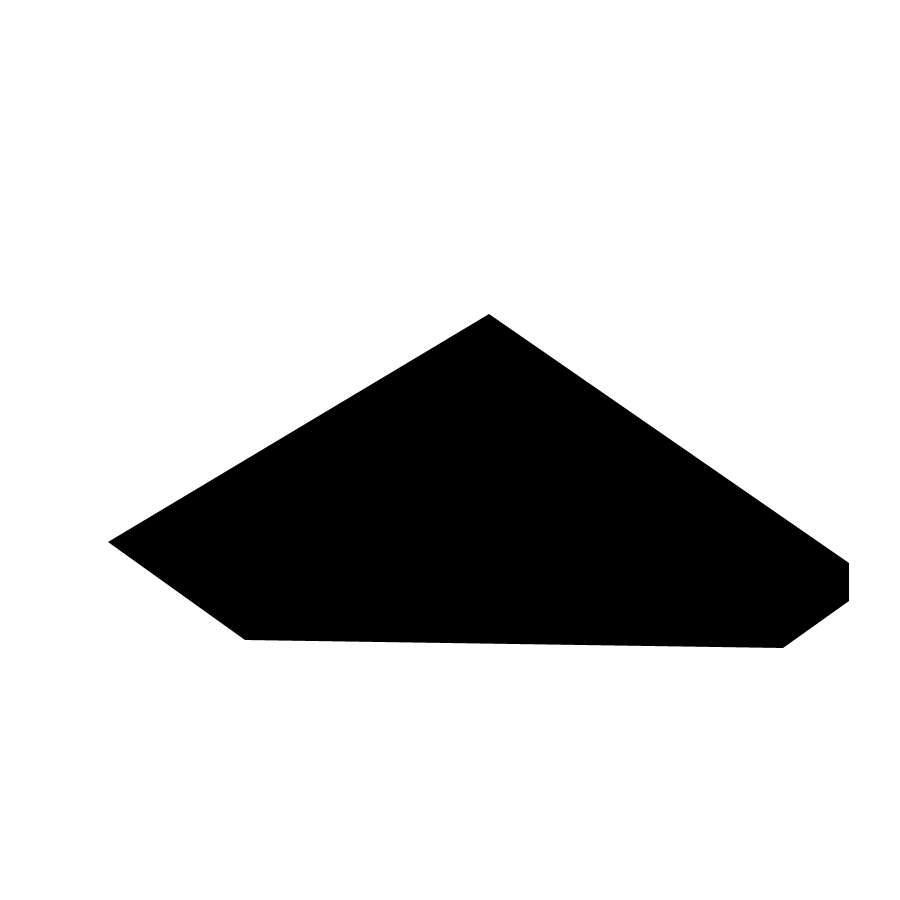
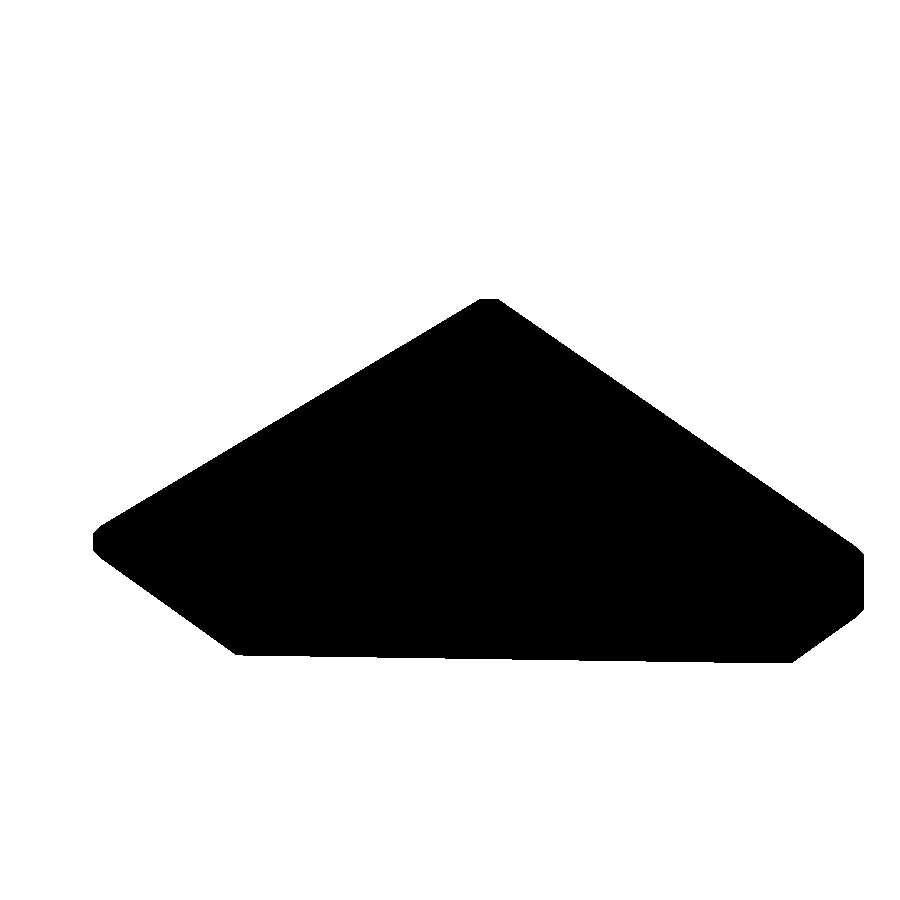
Pathfinding and other improvements (see description)
1) added global boolean DEBUG (change it in settings.json)
2) created a 2nd grid of 0/1 but in 2d coordinates (see grid.cpp)
3) now the 3d unit position is defined passing the position3D to the render (so i removed the set_noise() function in the unit_sprite class)

Changed region(s): [[0.0933, 0.3111, 0.9644, 0.7467]]

diff --git a/centurion-source/source/engine/engine.cpp b/centurion-source/source/engine/engine.cpp
@@ -180,22 +180,25 @@ void Engine::fps_sleep() {
 
 void Engine::render_ui() {
 
-	tahoma8_text.set_align();
+	/* DEBUG */
 
-	div_ui.apply_view_matrix();
-	div_ui.set_color(glm::vec4(0.f,0.f,0.f,0.5f));
-	div_ui.render(10.f, GAME::UI_BOTTOM_HEIGHT + 10.f);
+	if (GLB::DEBUG) {
 
-	if (bFPS){
-		tahoma6_text.set_position(glm::vec2(14.0f, GAME::UI_BOTTOM_HEIGHT + 12.f));
-		tahoma6_text.set_text(Fps1);
-		tahoma6_text.render();
+		div_ui.apply_view_matrix();
+		div_ui.set_color(glm::vec4(0.f, 0.f, 0.f, 0.5f));
+		div_ui.render(10.f, GAME::UI_BOTTOM_HEIGHT + 10.f);
 
-		tahoma6_text.set_position(glm::vec2(14.0f, GAME::UI_BOTTOM_HEIGHT + 12.f + 15.f));
-		tahoma6_text.set_text(Mspf1);
-		tahoma6_text.render();
+		if (bFPS) {
+			tahoma6_text.set_position(glm::vec2(14.0f, GAME::UI_BOTTOM_HEIGHT + 12.f));
+			tahoma6_text.set_text(Fps1);
+			tahoma6_text.render();
 
-		if (GLB::GAME){
+			tahoma6_text.set_position(glm::vec2(14.0f, GAME::UI_BOTTOM_HEIGHT + 12.f + 15.f));
+			tahoma6_text.set_text(Mspf1);
+			tahoma6_text.render();
+		}
+
+		if (GLB::GAME) {
 			tahoma6_text.set_position(glm::vec2(14.f, GAME::UI_BOTTOM_HEIGHT + 12.f + 15.f*2.f));
 			tahoma6_text.set_text(
 				"window position: x = "
@@ -211,16 +214,26 @@ void Engine::render_ui() {
 				+ std::to_string((int)getZoomedCoords((float)GLB::MOUSE_X, (float)GLB::MOUSE_Y).y));
 			tahoma6_text.set_position(glm::vec2(14.f, GAME::UI_BOTTOM_HEIGHT + 12.f + 15.f*3.f));
 			tahoma6_text.render();
-
-			tahoma8_text.set_position(glm::vec2(GLB::WINDOW_WIDTH - 99.0f, GLB::WINDOW_HEIGHT - GAME::UI_TOP_HEIGHT - 29.0f));
-			tahoma8_text.set_text(hours_str + ":" + minutes_str + ":" + seconds_str);
-			tahoma8_text.render(glm::vec4(0.f,0.f,0.f,255.f));
-
-			tahoma8_text.set_position(glm::vec2(GLB::WINDOW_WIDTH - 100.0f, GLB::WINDOW_HEIGHT - GAME::UI_TOP_HEIGHT - 28.0f));
-			tahoma8_text.set_text(hours_str + ":" + minutes_str + ":" + seconds_str);
-			tahoma8_text.render(glm::vec4(255.f));
 		}
+
 	}
+
+
+	
+
+	/* TIME */
+	tahoma8_text.set_align();
+	if (GLB::GAME){
+		
+		tahoma8_text.set_position(glm::vec2(GLB::WINDOW_WIDTH - 99.0f, GLB::WINDOW_HEIGHT - GAME::UI_TOP_HEIGHT - 29.0f));
+		tahoma8_text.set_text(hours_str + ":" + minutes_str + ":" + seconds_str);
+		tahoma8_text.render(glm::vec4(0.f,0.f,0.f,255.f));
+
+		tahoma8_text.set_position(glm::vec2(GLB::WINDOW_WIDTH - 100.0f, GLB::WINDOW_HEIGHT - GAME::UI_TOP_HEIGHT - 28.0f));
+		tahoma8_text.set_text(hours_str + ":" + minutes_str + ":" + seconds_str);
+		tahoma8_text.render(glm::vec4(255.f));
+	}
+
 }
 
 Engine::~Engine()

diff --git a/centurion-source/source/unit/unit.cpp b/centurion-source/source/unit/unit.cpp
@@ -50,8 +50,6 @@ void Unit::render(glm::mat4 viewMat) {
 	walk_behaviour();
 	znoise_update();
 
-	//if (GLB::MOUSE_RIGHT) pathfinding();
-
 	sprite.apply_projection_matrix(GLB::CAMERA_PROJECTION);
 	sprite.apply_view_matrix(viewMat);
 
@@ -64,17 +62,22 @@ void Unit::render(glm::mat4 viewMat) {
 
 	rectanglePath.apply_view_matrix(viewMat);
 
-	model = glm::translate(glm::mat4(1.0f), position2D);
+	model = glm::translate(glm::mat4(1.0f), position3D);
 
 	if (!GAME::MINIMAP_IS_ACTIVE) {
-		circlePos2D.render(position2D.x, position2D.y);
-		circlePos3D.render(position3D.x, position3D.y);
-
 		sprite.render(model, currentState);
 	}
 
-	for (int i = 0; i < path.size(); i++) {
-		rectanglePath.render(path[i].x, path[i].y);
+	/* debug pathfinding and coordinates */
+
+	if (GLB::DEBUG) {
+		for (int i = 0; i < path.size(); i++) {
+			rectanglePath.render(path[i].x, path[i].y);
+		}
+		if (!GAME::MINIMAP_IS_ACTIVE) {
+			circlePos2D.render(position2D.x, position2D.y);
+			circlePos3D.render(position3D.x, position3D.y);
+		}
 	}
 
 }
@@ -175,7 +178,7 @@ std::vector<glm::ivec2> Unit::pathfinding(glm::vec2 start, glm::vec2 end) {
 	clock_t startTime = clock();
 
 	//fix pathfinding click to 1
-	while (PATH::GRID_MATRIX[iEnd][jEnd] != 0) {
+	while (PATH::GRID_MATRIX_2D[iEnd][jEnd] != 0) {
 		iEnd--;
 		jEnd--;
 	}
@@ -195,8 +198,7 @@ void Unit::znoise_update() {
 	znoise = generateNoise(position2D).zNoise;
 
 	position3D.x = position2D.x;
-	position3D.y = position2D.y + znoise;
-	sprite.set_znoise(znoise);
+	position3D.y = position2D.y + znoise - PATH::CELL_GRID_SIZE/2;
 }
 
 Unit::~Unit() {

diff --git a/centurion-source/source/terrain/grid.cpp b/centurion-source/source/terrain/grid.cpp
@@ -41,15 +41,30 @@ void Grid::create() {
 	glBindBuffer(GL_ELEMENT_ARRAY_BUFFER, 0);
 	glBindVertexArray(0);
 
+
 	/* This texture comes from the real grid of 0/1 */
 
+	float zNoise;
+	int yNoise;
 	int grid_sizeX = GAME::MAP_WIDTH / PATH::CELL_GRID_SIZE;
 	int grid_sizeY = GAME::MAP_HEIGHT / PATH::CELL_GRID_SIZE;
 	unsigned char* gridData = new unsigned char[grid_sizeX * grid_sizeY * 4];
+
 	for (int y = 0; y < grid_sizeY; ++y) {
 		for (int x = 0; x < grid_sizeX; ++x) {
 
-			if (PATH::GRID_MATRIX[y][x] == 1) {
+			/* From 3d grid to 2d */
+			/* for pathfinding calculation */
+			zNoise = generateNoise(glm::vec2(x*PATH::CELL_GRID_SIZE, y*PATH::CELL_GRID_SIZE)).zNoise;
+			zNoise = smoothNoise(y*PATH::CELL_GRID_SIZE, zNoise);
+			yNoise = int(y*PATH::CELL_GRID_SIZE + zNoise) / PATH::CELL_GRID_SIZE;
+			if (yNoise < grid_sizeY && yNoise > 0) {
+				PATH::GRID_MATRIX_2D[y][x] = PATH::GRID_MATRIX[yNoise][x];
+			}
+
+			/* save a grid image for debug and graphic purposes*/
+
+			if (PATH::GRID_MATRIX_2D[y][x] == 1) {
 				gridData[(grid_sizeX * (grid_sizeY - 1 - y) + x) * 4 + 0] = 0;
 				gridData[(grid_sizeX * (grid_sizeY - 1 - y) + x) * 4 + 1] = 0;
 				gridData[(grid_sizeX * (grid_sizeY - 1 - y) + x) * 4 + 2] = 0;
@@ -61,6 +76,8 @@ void Grid::create() {
 				gridData[(grid_sizeX * (grid_sizeY - 1 - y) + x) * 4 + 2] = 255;
 				gridData[(grid_sizeX * (grid_sizeY - 1 - y) + x) * 4 + 3] = 0;
 			}
+
+			
 		}
 	}
 

diff --git a/centurion-source/source/pathfinding/a_star.cpp b/centurion-source/source/pathfinding/a_star.cpp
@@ -77,7 +77,7 @@ std::vector<glm::ivec2> aStar::pathFind(const Location &locStart, const Location
 
 				int p = 0;
 				for (int _i = 0; _i < 8; _i++) {
-					if (PATH::GRID_MATRIX[row+iDir[_i]][col+jDir[_i]] == 1) {
+					if (PATH::GRID_MATRIX_2D[row+iDir[_i]][col+jDir[_i]] == 1) {
 						p++;
 					}
 				}
@@ -108,7 +108,7 @@ std::vector<glm::ivec2> aStar::pathFind(const Location &locStart, const Location
 
 			// if not wall (obstacle) nor in the closed list
 			if (!(iNext < 0 || iNext > IDIM - 1 || jNext < 0 || jNext > JDIM - 1 ||
-				PATH::GRID_MATRIX[iNext][jNext] == 1 || PATH::CLOSED_NODES[iNext][jNext] == 1)) {
+				PATH::GRID_MATRIX_2D[iNext][jNext] == 1 || PATH::CLOSED_NODES[iNext][jNext] == 1)) {
 
 				// generate a child node
 				pNode2 = new Node(Location(iNext, jNext), pNode1->getGValue(), pNode1->getFValue());

diff --git a/centurion-source/main.cpp b/centurion-source/main.cpp
@@ -34,6 +34,7 @@ namespace GLB {
 	bool CTRL_BUTTON = false;
 	std::vector<glm::vec3> COLORS;
 	GLFWwindow *MAIN_WINDOW;
+	bool DEBUG = false;
 }
 
 namespace MAP {
@@ -72,6 +73,7 @@ namespace GAME {
 namespace PATH {
 	int CELL_GRID_SIZE = 20;
 	int GRID_MATRIX[1000][1500] = { 0 };
+	int GRID_MATRIX_2D[1000][1500] = { 0 };
 	int CLOSED_NODES[1000][1500] = { 0 };
 	int OPEN_NODES[1000][1500] = { 0 };
 	int DIR_MAP[1000][1500] = { 0 };
@@ -83,6 +85,7 @@ int main() {
 	std::ifstream settings_path("settings.json");
 	json settings = json::parse(settings_path);
 
+	GLB::DEBUG = (bool)settings["debug"].get<int>();
 	GLB::WINDOW_WIDTH = settings["window_width"];
 	GLB::WINDOW_HEIGHT = settings["window_height"];
 	GLB::WINDOW_WIDTH_ZOOMED = GLB::WINDOW_WIDTH;

diff --git a/centurion-source/source/common/global.hpp b/centurion-source/source/common/global.hpp
@@ -41,6 +41,7 @@ namespace GLB {
 	extern bool CTRL_BUTTON;
 	extern std::vector<glm::vec3> COLORS;
 	extern GLFWwindow *MAIN_WINDOW;
+	extern bool DEBUG;
 }
 
 namespace MAP {
@@ -78,6 +79,7 @@ namespace GAME {
 namespace PATH {
 	extern int CELL_GRID_SIZE;
 	extern int GRID_MATRIX[1000][1500];
+	extern int GRID_MATRIX_2D[1000][1500];
 	extern int CLOSED_NODES[1000][1500];
 	extern int OPEN_NODES[1000][1500];
 	extern int DIR_MAP[1000][1500];

diff --git a/centurion-source/source/unit/unit_sprite.cpp b/centurion-source/source/unit/unit_sprite.cpp
@@ -116,11 +116,11 @@ void USprite::set_direction(int d) {
 	glUseProgram(shaderId);
 	glUniform1i(glGetUniformLocation(shaderId, "current_dir"), d);
 }
-
-void USprite::set_znoise(float z) {
-	glUseProgram(shaderId);
-	glUniform1f(glGetUniformLocation(shaderId, "znoise"), z);
-}
+//
+//void USprite::set_znoise(float z) {
+//	glUseProgram(shaderId);
+//	glUniform1f(glGetUniformLocation(shaderId, "znoise"), z);
+//}
 
 USprite::~USprite()
 {

diff --git a/centurion-source/source/game/game.cpp b/centurion-source/source/game/game.cpp
@@ -151,8 +151,12 @@ void Game::run() {
 
 	go_to_position();
 
-	cursor_point.render();
+	if (GLB::DEBUG) {
+		cursor_point.render();
+	}
+	
 	ui.render();
+
 
 	GLB::CAMERA_PROJECTION = glm::ortho(0.0f, (float)GLB::WINDOW_WIDTH_ZOOMED, 0.0f, (float)GLB::WINDOW_HEIGHT_ZOOMED, -(float)GAME::MAP_WIDTH, (float)GAME::MAP_WIDTH);
 }

diff --git a/centurion-source/source/terrain/surface.cpp b/centurion-source/source/terrain/surface.cpp
@@ -19,7 +19,7 @@ void Surface::create() {
 void Surface::render(glm::mat4 projMat, glm::mat4 viewMat, bool tracing) {
 	terrain.render(projMat, viewMat, tracing);
 
-	if (GAME::GRID_IS_ACTIVE) {
+	if (GAME::GRID_IS_ACTIVE && !tracing) {
 		grid.render(projMat, viewMat);
 	}
 }

diff --git a/centurion-source/source/unit/unit_sprite.h b/centurion-source/source/unit/unit_sprite.h
@@ -13,7 +13,7 @@ public:
 	void render(glm::mat4 modelMat, std::string state);
 	void set_frame(int f, int mf);
 	void set_direction(int d);
-	void set_znoise(float z);
+	//void set_znoise(float z);
 	~USprite();
 
 private:

diff --git a/centurion-source/source/terrain/grid.h b/centurion-source/source/terrain/grid.h
@@ -3,6 +3,7 @@
 #include <global.hpp>
 #include <shader.h>
 #include <stb_image.h>
+#include <map_generation.hpp>
 
 class Grid : public Shader
 {
